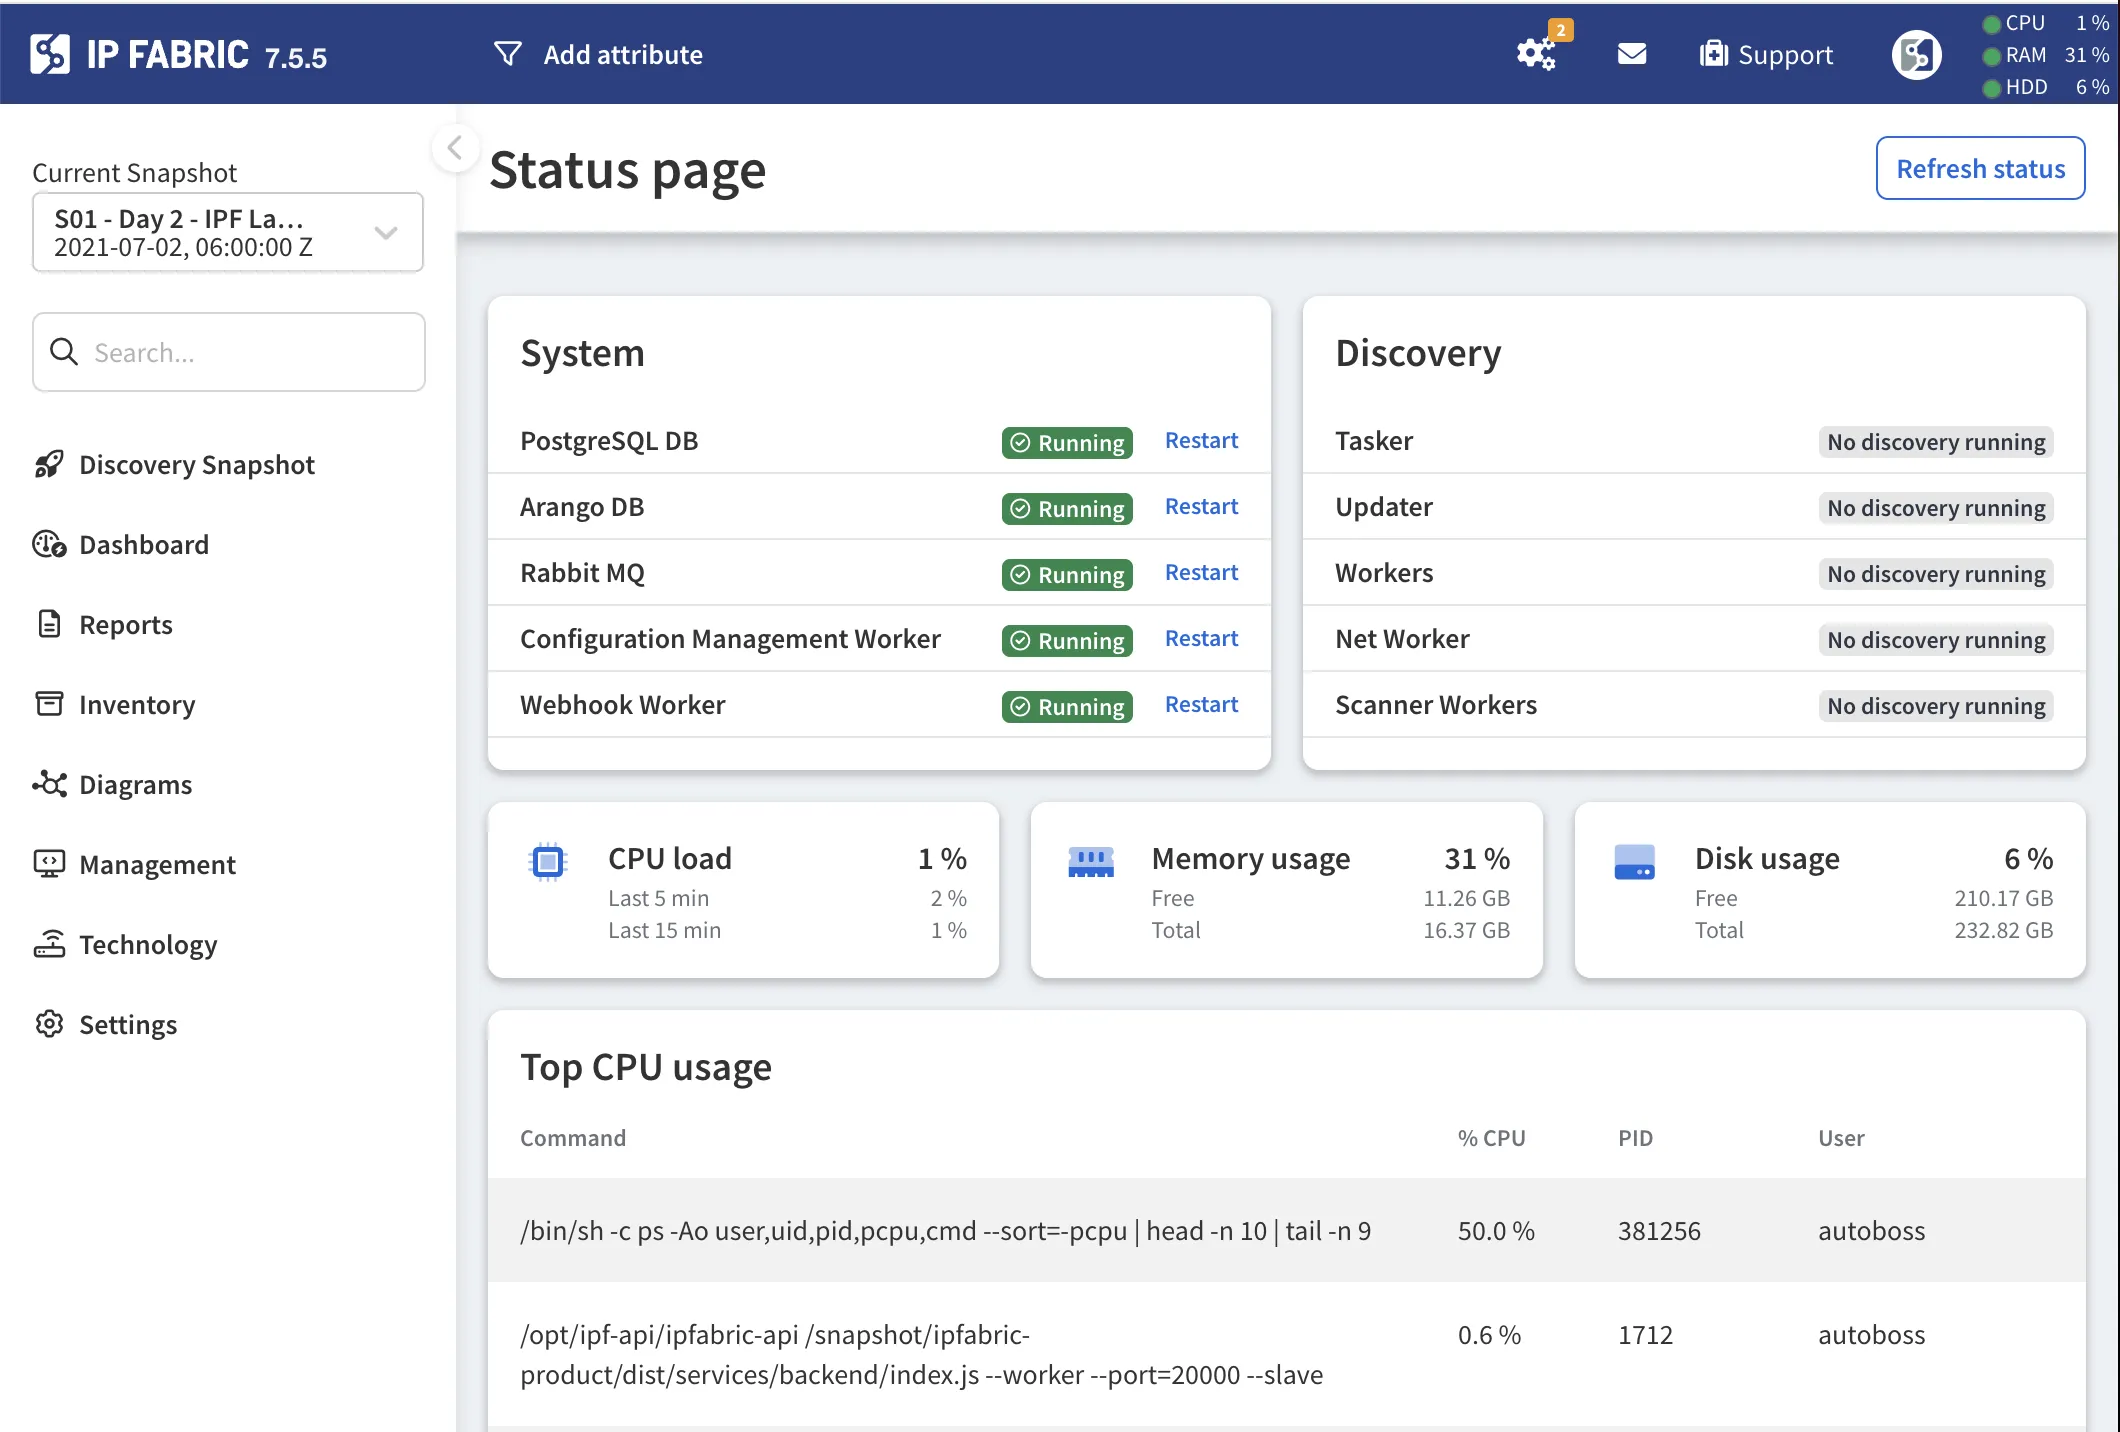
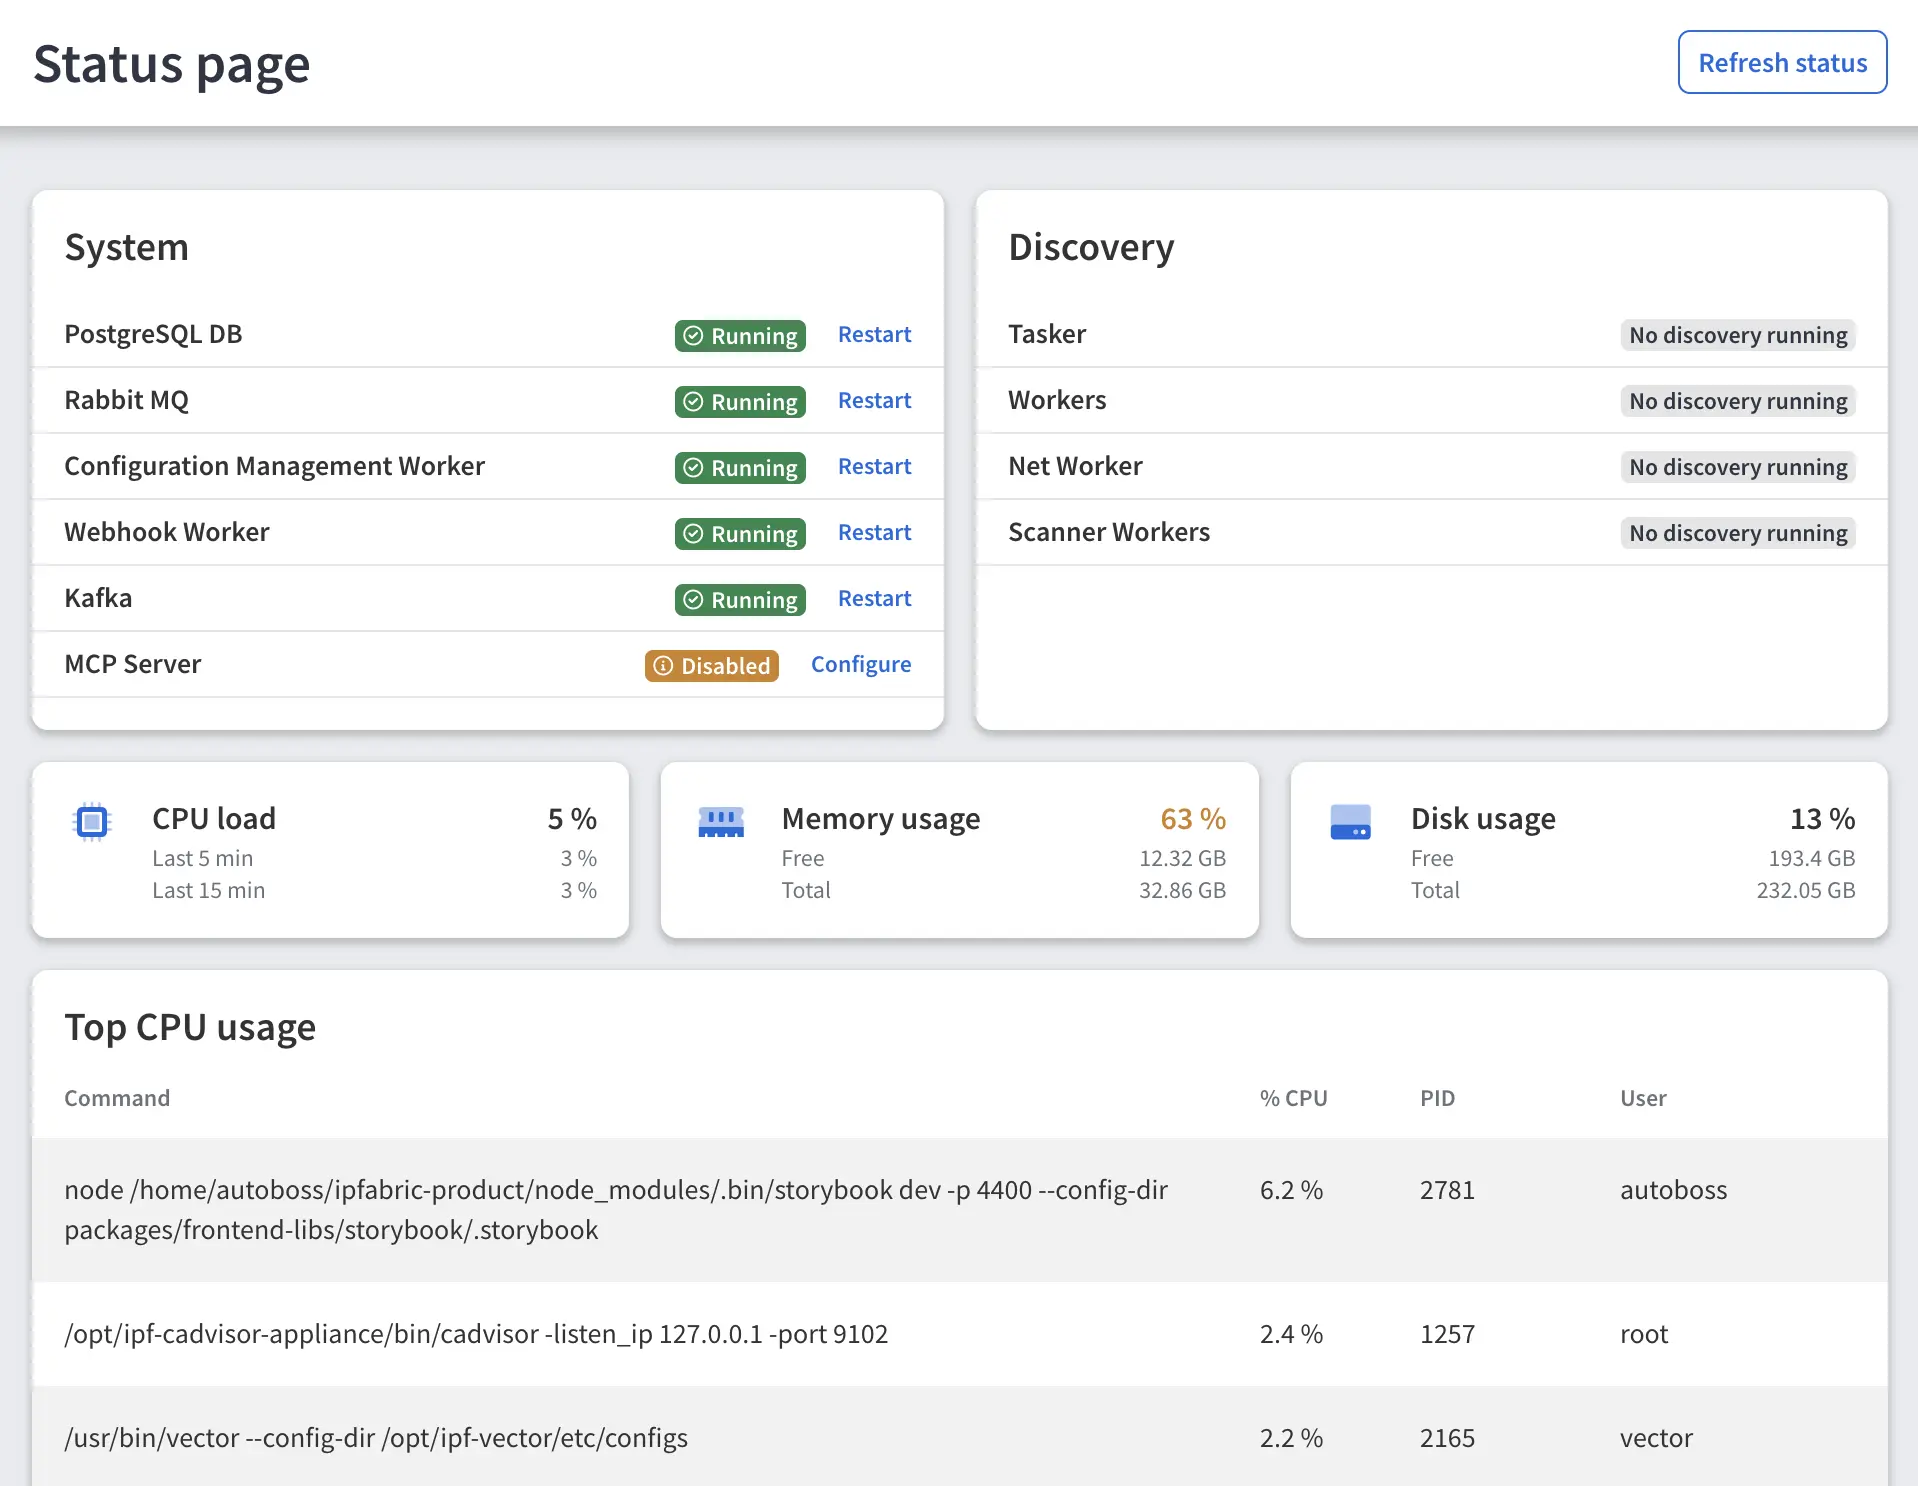
NIM-22294: Document Updater removal

diff --git a/docs/System_Administration/Command_Line_Interface/Logging.md b/docs/System_Administration/Command_Line_Interface/Logging.md
@@ -65,7 +65,7 @@ the `messageSubType` key as follows:
   and the responses received. Usable for scripting on top of the logs.
 - `cliInternal`: Messages with no formal structure used purely for debugging.
 
-The following 4 services -- Networker, Tasker, Updater, and Worker -- all log in
+The following services -- Networker, Tasker, and Worker -- all log in
 two formats:
 
 | File                                                                                    | Description                                      |
@@ -78,7 +78,6 @@ Service directories and their descriptions:
 | :-------------------------------------------------- | :--------------------------------------------------------------------------------------- |
 | `/home/autoboss/snapshots/<id>/services/networker/` | Networker via `traceroute` looks for other possible next tasks for the `worker` service. |
 | `/home/autoboss/snapshots/<id>/services/tasker/`    | Tasker prepares `vTask` records -- connecting into (network) devices.                    |
-| `/home/autoboss/snapshots/<id>/services/updater/`   | Updater is transforming device JSONs into the database.                                  |
 | `/home/autoboss/snapshots/<id>/services/worker/`    | Worker does the parsing.                                                                 |
 | `/home/autoboss/snapshots/<id>/services/scanworker/`| ScanWorker does the scanning. Optional folder if the scanner is enabled                  |
 

diff --git a/docs/overview/index.md b/docs/overview/index.md
@@ -10,7 +10,7 @@ The IP Fabric network infrastructure management platform provides on-demand netw
 
 A distributed system of microservice components resides within the IP Fabric VM, all based around a multi-model database with a mathematical network model at its core. Operating system-level controls provide high availability, security, and log collection. The kernel-level bidirectional traffic shaper and application-level worker flow control mechanisms provide comprehensive traffic management and automatically respond to any signs of network congestion to ensure that only freely available bandwidth is utilized. The user interface is available on port `443` of the VM's IP address through any modern web browser and on any screen. Table output can be exported into CSV format for further processing, and selected reports are exportable into Word format.
 
-![IP Fabric Architecture](../images/snapshot-management/snapshot-management_overview-architecture.webp)
+![IP Fabric Architecture](../images/snapshot-management/IP_Fabric_VM_architecture.webp)
 
 ## Operational Requirements
 

diff --git a/docs/releases/release_notes/7.13_8.0.md b/docs/releases/release_notes/7.13_8.0.md
@@ -47,11 +47,15 @@ description: In this section, you can find the release notes for `vX.Y` releases
 
     Download the exported images via SFTP or SCP. Then deploy the new extensions in the UI.
 
-### Force-stopping 
+### Force-stopping
 
 - As of `v8.0.0`, force-stopping the Topology Calculation process is temporarily unavailable.
   - A fix will ship in a future release.
   - As a temporary workaround, restart the `ipf-api` service to stop the process: `systemctl restart ipf-api.service`.
+
+### Updater
+
+- The **Updater** service is removed from the system. Database ingestion is now part of IP Fabric API. View related logs in `ipf-api` service logs (see [Service Logs](../../System_Administration/Command_Line_Interface/Logging.md#service-logs)).
 
 ## `v7.X.X` (UNRELEASED)
 

diff --git a/docs/IP_Fabric_GUI/tips/system_status.md b/docs/IP_Fabric_GUI/tips/system_status.md
@@ -17,5 +17,4 @@ The most CPU-intensive system processes are also displayed.
 
 !!! info
 
-    When no discovery process is running, its services (`Tasker`, `Updater`,
-    `Workers`, `Net Worker`, and `Scanner Workers`) are expected to be inactive.
+    When no discovery process is running, its services (`Tasker`, `Workers`, `Net Worker`, and `Scanner Workers`) are expected to be inactive.
